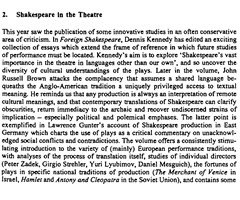
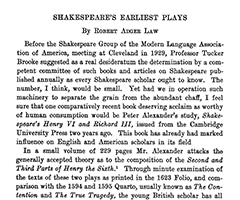
corrections to JA  A-level feature

diff --git a/brands/default/features/englishlit.html b/brands/default/features/englishlit.html
@@ -115,13 +115,13 @@
                 </div>
 
                 <div class="col-sm-6 col-md-3">
-                    <div class="thumbnail"> <img src="../images/features/englishlit/f-englishlit-shakespeare-6.jpg" alt="The Young Shakespeare">
+                    <div class="thumbnail"> <img src="../images/features/englishlit/f-englishlit-shakespeare-6.jpg" alt="Charisma, Coercion, and Comic Form">
                         <div class="caption">
-                            <h3>Donne&#39;s Master&#58; The Young Shakespeare</h3>
+                            <h3>Charisma, Coercion, and Comic Form in &quot;The Taming of the Shrew&quot;</h3>
                             <p>Publication&#58; <a href="https://journalarchives.jisc.ac.uk/results?tab=title&jid=393239333234383430%2332383931343737343534" target="_self">Criticism</a></p>
-							<p>Published&#58; 1973</p>
+							<p>Published&#58; 1984</p>
                             <p><span class="badge">Proquest</span></p>
-                            <p><a href="https://journalarchives.jisc.ac.uk/proquestpdfz303z303-1973-015-02-000003pdf" class="btn btn-primary" role="button">View text</a> </p>
+                            <p><a href="https://journalarchives.jisc.ac.uk/proquestpdfz303z303-1984-026-04-000001pdf" class="btn btn-primary" role="button">View text</a> </p>
                         </div>
                     </div>
                 </div>
@@ -133,13 +133,13 @@
 			
 			<div class="row">
                 <div class="col-sm-6 col-md-3">
-                    <div class="thumbnail"> <img src="../images/features/englishlit/f-englishlit-shakespeare-7.jpg" alt="Shakespeare">
+                    <div class="thumbnail"> <img src="../images/features/englishlit/f-englishlit-shakespeare-7.jpg" alt="Shakespeare's Earliest Plays">
                         <div class="caption">
-                            <h3>Shakespeare</h3>
-							<p>Publication&#58; <a href="https://journalarchives.jisc.ac.uk/results?tab=title&jid=32383434363238333739%2334313139373934353435" target="_self">The Year&#39;s Work in English Studies</a></p>
-                            <p>Published&#58; 1993</p>
-                            <p><span class="badge">OUP</span></p>
-                            <p><a href="https://journalarchives.jisc.ac.uk/oupjournalsywesywes_74_1pdf192pdf" class="btn btn-primary" role="button">View text</a> </p>
+                            <h3>Shakespeare&#39;s Earliest Plays</h3>
+							<p>Publication&#58; <a href="https://journalarchives.jisc.ac.uk/results?tab=title&jid=32383434363238333739%2334313139373934353435" target="_self">Studies in Philology</a></p>
+                            <p>Published&#58; 1931</p>
+                            <p><span class="badge">Proquest</span></p>
+                            <p><a href="https://journalarchives.jisc.ac.uk/proquestpdf12211221-1931-028-00-000036pdf" class="btn btn-primary" role="button">View text</a> </p>
                         </div>
                     </div>
                 </div>
@@ -490,7 +490,7 @@
 
 
 			<h2>Drama</h2>
-            <p>A small selection of articles on set texts from the specification.</p>
+            <p>A small selection of articles on set texts from the specifications.</p>
 
             <div class="row"> <!--row 1 drama-->
                 
@@ -587,7 +587,7 @@
 
 			 <h2>Search tips</h2>
 
-            <p>If you need more help with your search terms or the advanced search, check out the Help File in our Support pages.</p>
+            <p>If you need more help with your search terms or the advanced search, check out the <a href="https://journalarchives.jisc.ac.uk/help">Help File</a> in our Support pages.</p>
 
             <p>
                 <img src="../images/features/englishlit/f-englishlit-helpfile.jpg" alt="Screenshot of the help file page"/>

diff --git a/brands/default/features/RS.html b/brands/default/features/RS.html
@@ -494,7 +494,7 @@
             </div> <!--close row 2 -->
 			
 			<h2>Religious Ethics</h2>
-            <p>A selection of other journal titles on topics within the study of religious ethics in the A&#58;Level specification.</p>
+            <p>A selection of other journal titles on topics within the study of religious ethics in the A&#45;Level specification.</p>
 
             <div class="row"> <!--row 1 ethics-->
                 
